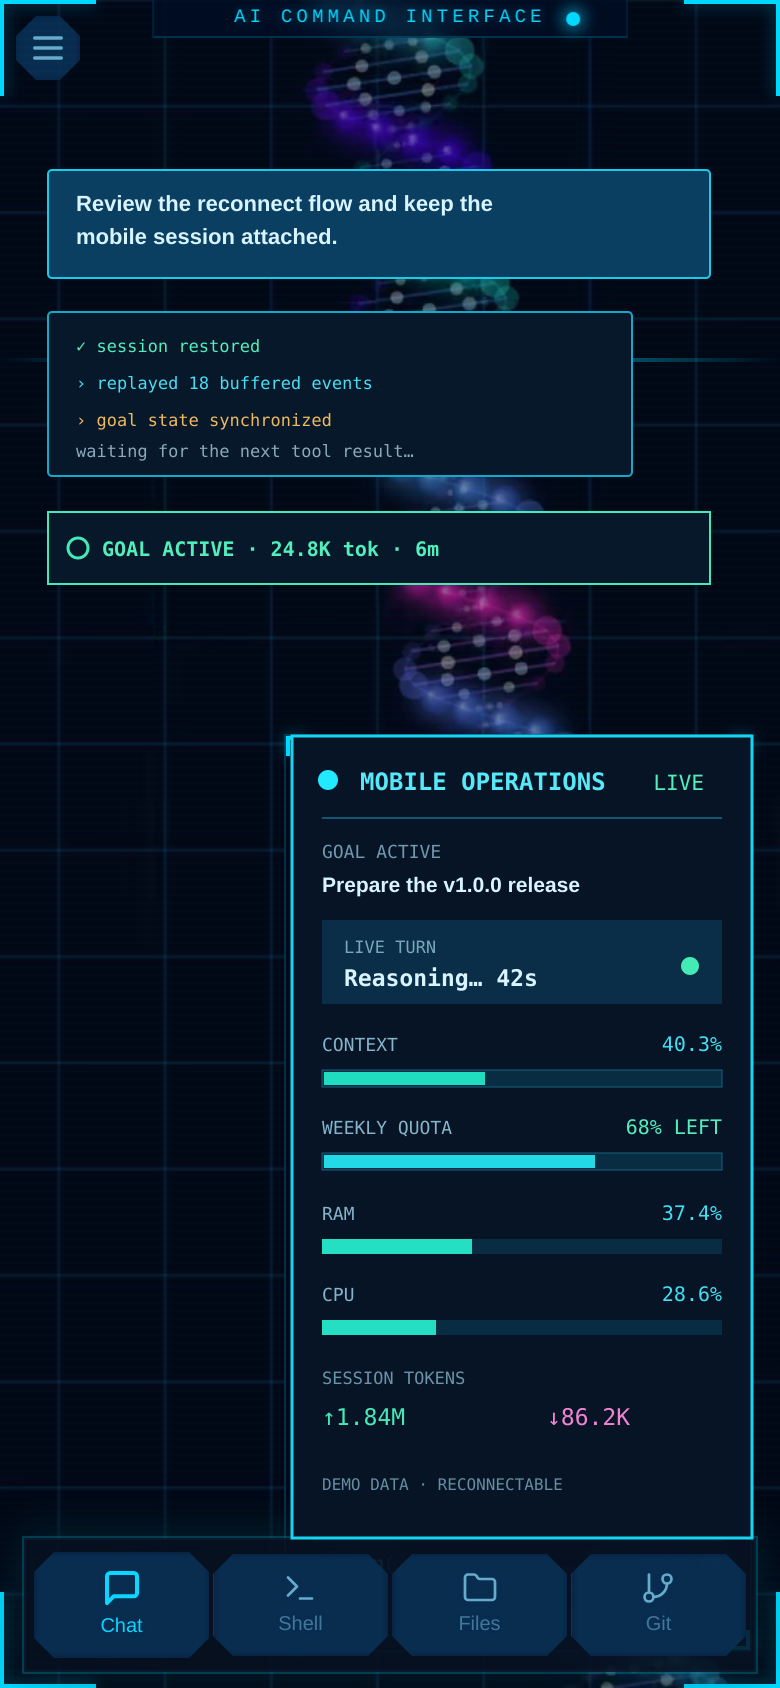
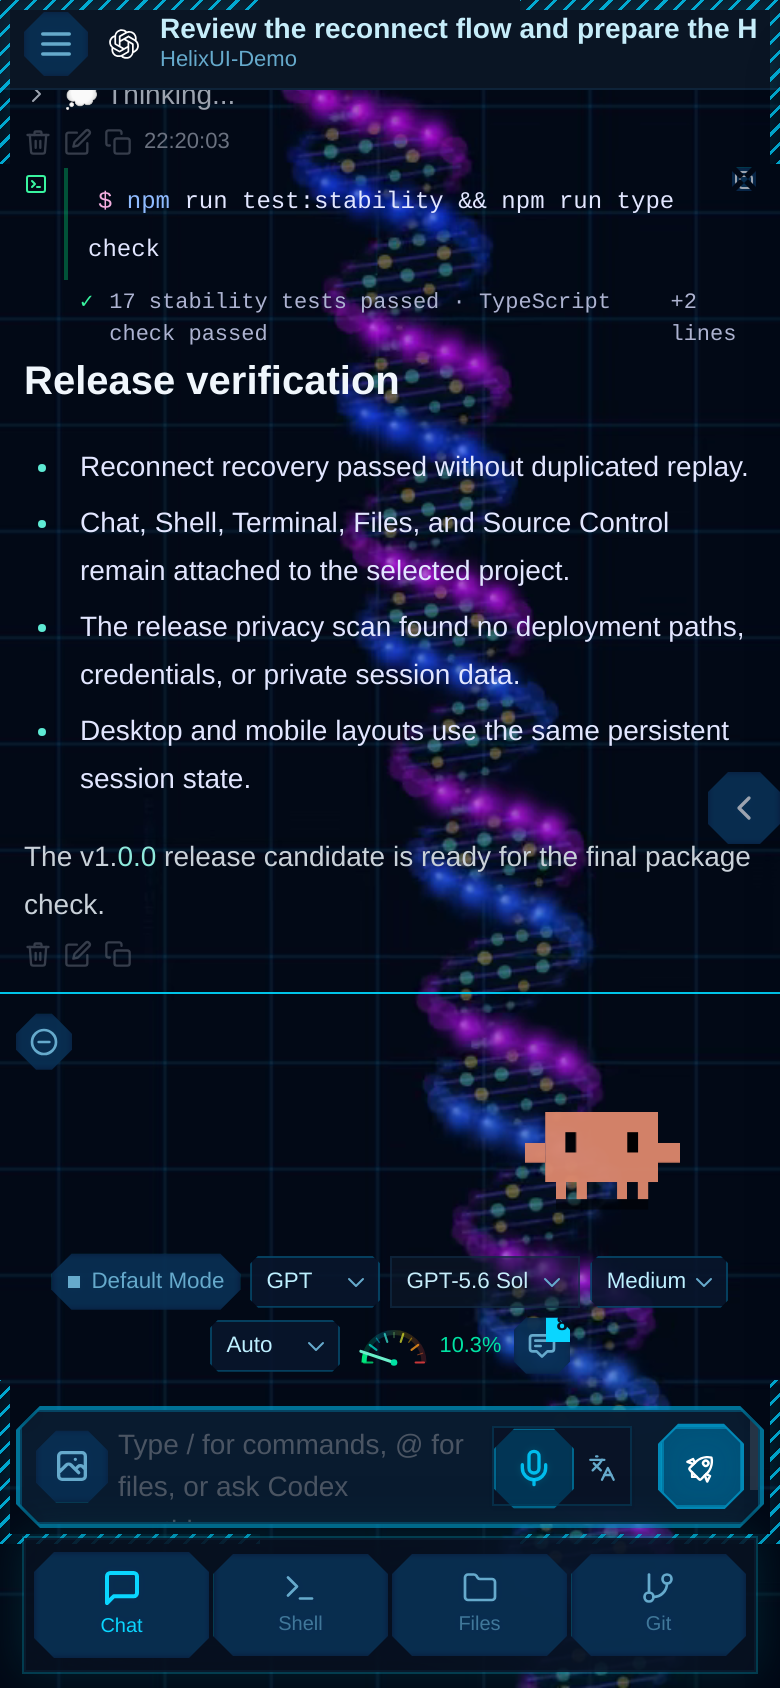
docs: replace mockups with genuine product captures

diff --git a/public/api-docs.html b/public/api-docs.html
@@ -3,7 +3,7 @@
 <head>
     <meta charset="UTF-8">
     <meta name="viewport" content="width=device-width, initial-scale=1.0">
-    <title>Claude Code UI - API Documentation</title>
+    <title>HelixUI - API Documentation</title>
     <link rel="icon" type="image/svg+xml" href="/favicon.svg" />
     <link rel="icon" type="image/png" href="/favicon.png" />
     <style>
@@ -414,7 +414,7 @@
                     </svg>
                 </div>
                 <div class="brand-text">
-                    <h1>Claude Code UI</h1>
+                    <h1>HelixUI</h1>
                     <div class="subtitle">API Documentation</div>
                 </div>
             </div>

diff --git a/src/components/ProtectedRoute.jsx b/src/components/ProtectedRoute.jsx
@@ -14,7 +14,7 @@ const LoadingScreen = () => (
       <div className="flex justify-center mb-4">
         <DNASpinner size="md" />
       </div>
-      <h1 className="text-2xl font-bold text-foreground mb-2">Claude Code UI</h1>
+      <h1 className="text-2xl font-bold text-foreground mb-2">HelixUI</h1>
       <p className="text-muted-foreground mt-2">Loading...</p>
     </div>
   </div>

diff --git a/public/clear-cache.html b/public/clear-cache.html
@@ -1,7 +1,7 @@
 <!DOCTYPE html>
 <html>
 <head>
-    <title>Clear Cache - Claude Code UI</title>
+    <title>Clear Cache - HelixUI</title>
     <style>
         body {
             font-family: system-ui, -apple-system, sans-serif;

diff --git a/README.zh-CN.md b/README.zh-CN.md
@@ -16,7 +16,7 @@
 <p align="center">
   <img src="docs/assets/operations-console.png" alt="HelixUI Goal、用量、额度、实时工作与系统资源面板" width="100%">
 </p>
-<p align="center"><sub>Goal、用量、额度、实时工作和系统面板；图中数值均为合成演示数据。</sub></p>
+<p align="center"><sub>来自隔离演示实例的真实 HelixUI 浏览器截图。账号、用量、额度和系统数值均为由真实界面渲染的隐私安全演示数据。</sub></p>
 
 HelixUI 不只是把代理 CLI 套进浏览器。它是为同时运行多个 AI 编程会话、需要从
 不同设备回来继续工作，并且关心“谁正在运行、何时结束、占用了多少上下文、主机
@@ -69,7 +69,7 @@ HelixUI 不只是把代理 CLI 套进浏览器。它是为同时运行多个 AI 
 <p align="center">
   <img src="docs/assets/mobile-overview.png" alt="包含 Chat、Goal、实时工作状态、Quota、Context、资源面板和底部导航的完整 HelixUI 手机版" width="330">
 </p>
-<p align="center"><sub>完整纵向移动布局，图中数值为合成演示数据；Chat、Shell、Files 和 Git 一键切换。</sub></p>
+<p align="center"><sub>来自同一隔离演示实例的真实完整纵向手机截图；Chat、Shell、Files 和 Git 一键切换。</sub></p>
 
 手机版不是只能查看结果的精简页面。它能够重连到同一个活动轮次、恢复缓冲进度、
 发送后续消息、查看 Goal 状态，并在 Chat、Shell、Files 和 Git 之间切换，而不会

diff --git a/README.md b/README.md
@@ -16,7 +16,7 @@
 <p align="center">
   <img src="docs/assets/operations-console.png" alt="HelixUI observability console with Goal, usage, quota, live-turn, and resource panels" width="100%">
 </p>
-<p align="center"><sub>Goal, usage, quota, live-turn, and system panels shown with synthetic demo data.</sub></p>
+<p align="center"><sub>A genuine HelixUI browser capture from an isolated demo instance. Account, usage, quota, and system values are privacy-safe demo data rendered by the real interface.</sub></p>
 
 HelixUI is not just a browser wrapper around an agent CLI. It is a visual
 operations workspace for people who keep several AI coding sessions running,
@@ -78,7 +78,7 @@ styling never changes session behavior or provider data.
 <p align="center">
   <img src="docs/assets/mobile-overview.png" alt="Complete HelixUI mobile interface with chat, Goal state, live-turn status, quota, context, resources, and bottom navigation" width="330">
 </p>
-<p align="center"><sub>Full-height mobile layout with synthetic demo data. Chat, Shell, Files, and Git remain one tap away.</sub></p>
+<p align="center"><sub>A genuine full-height mobile browser capture from the same isolated demo instance. Chat, Shell, Files, and Git remain one tap away.</sub></p>
 
 Mobile is not a reduced read-only viewer. It can reconnect to the same active
 turn, display buffered progress, accept follow-ups, inspect Goal state, and
